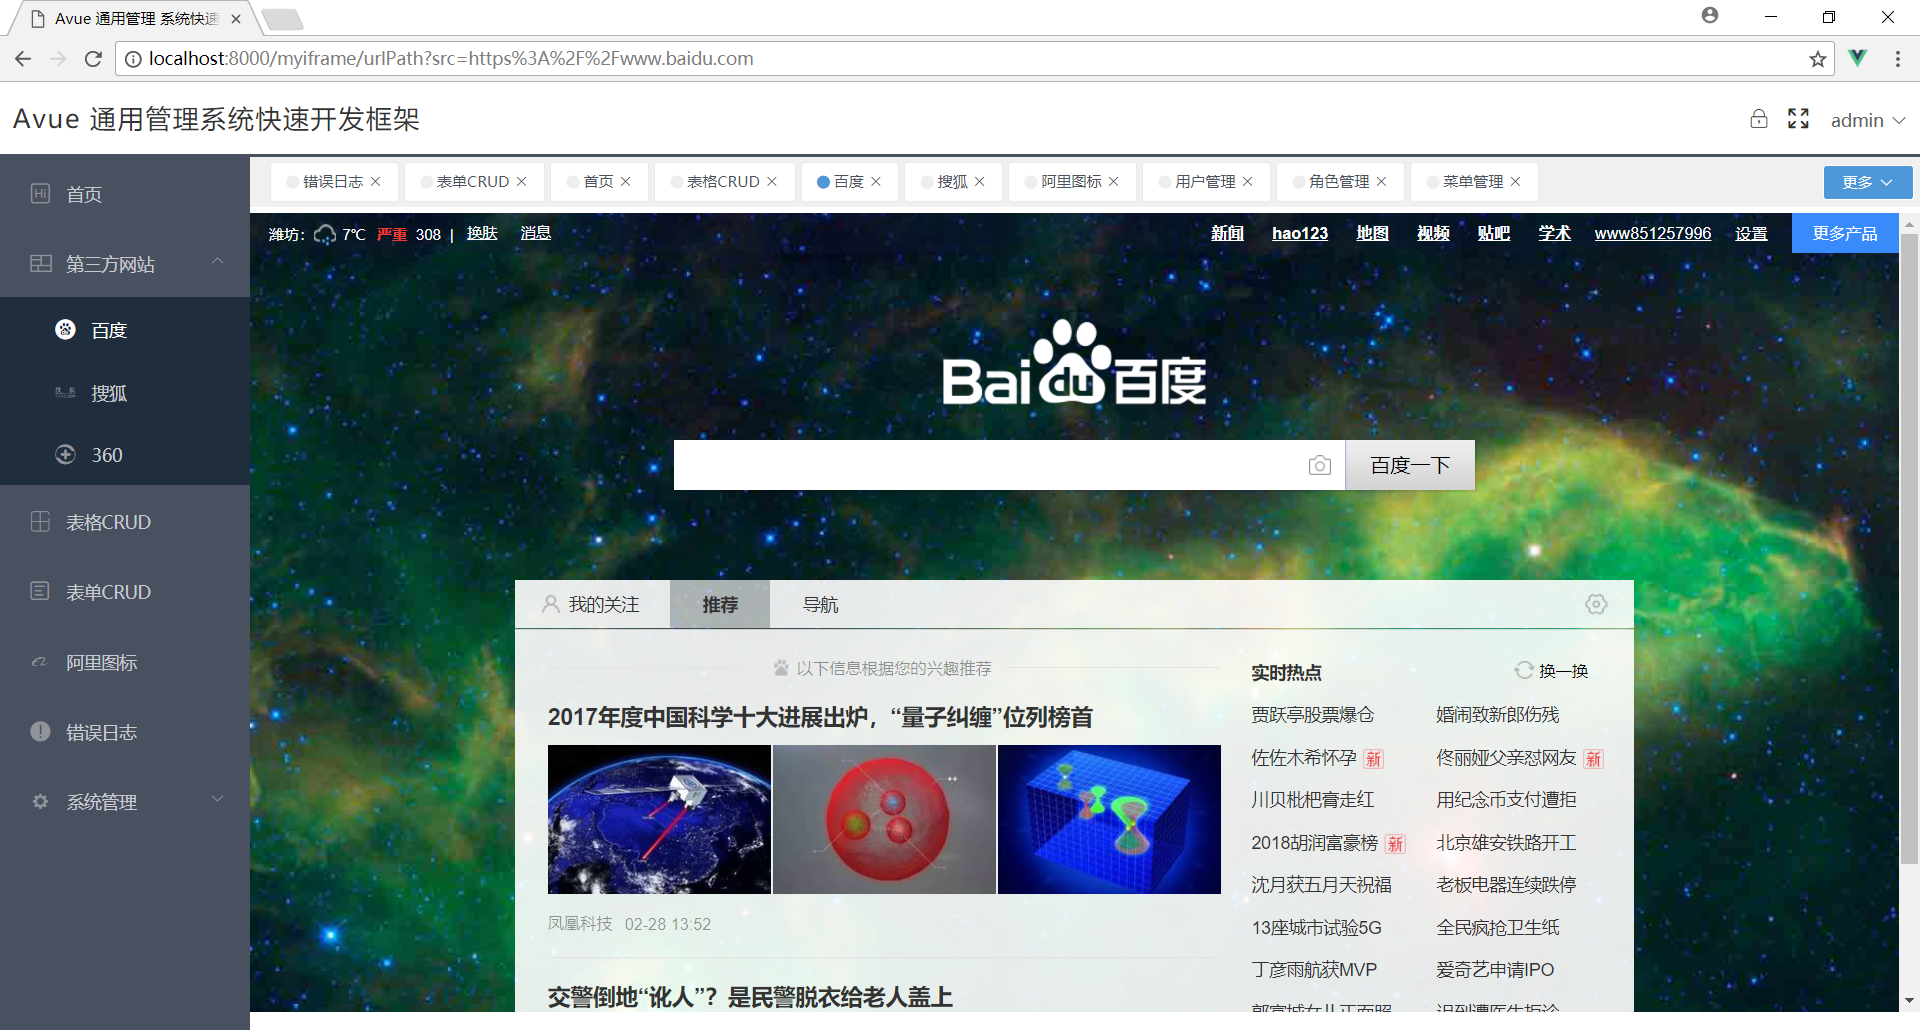
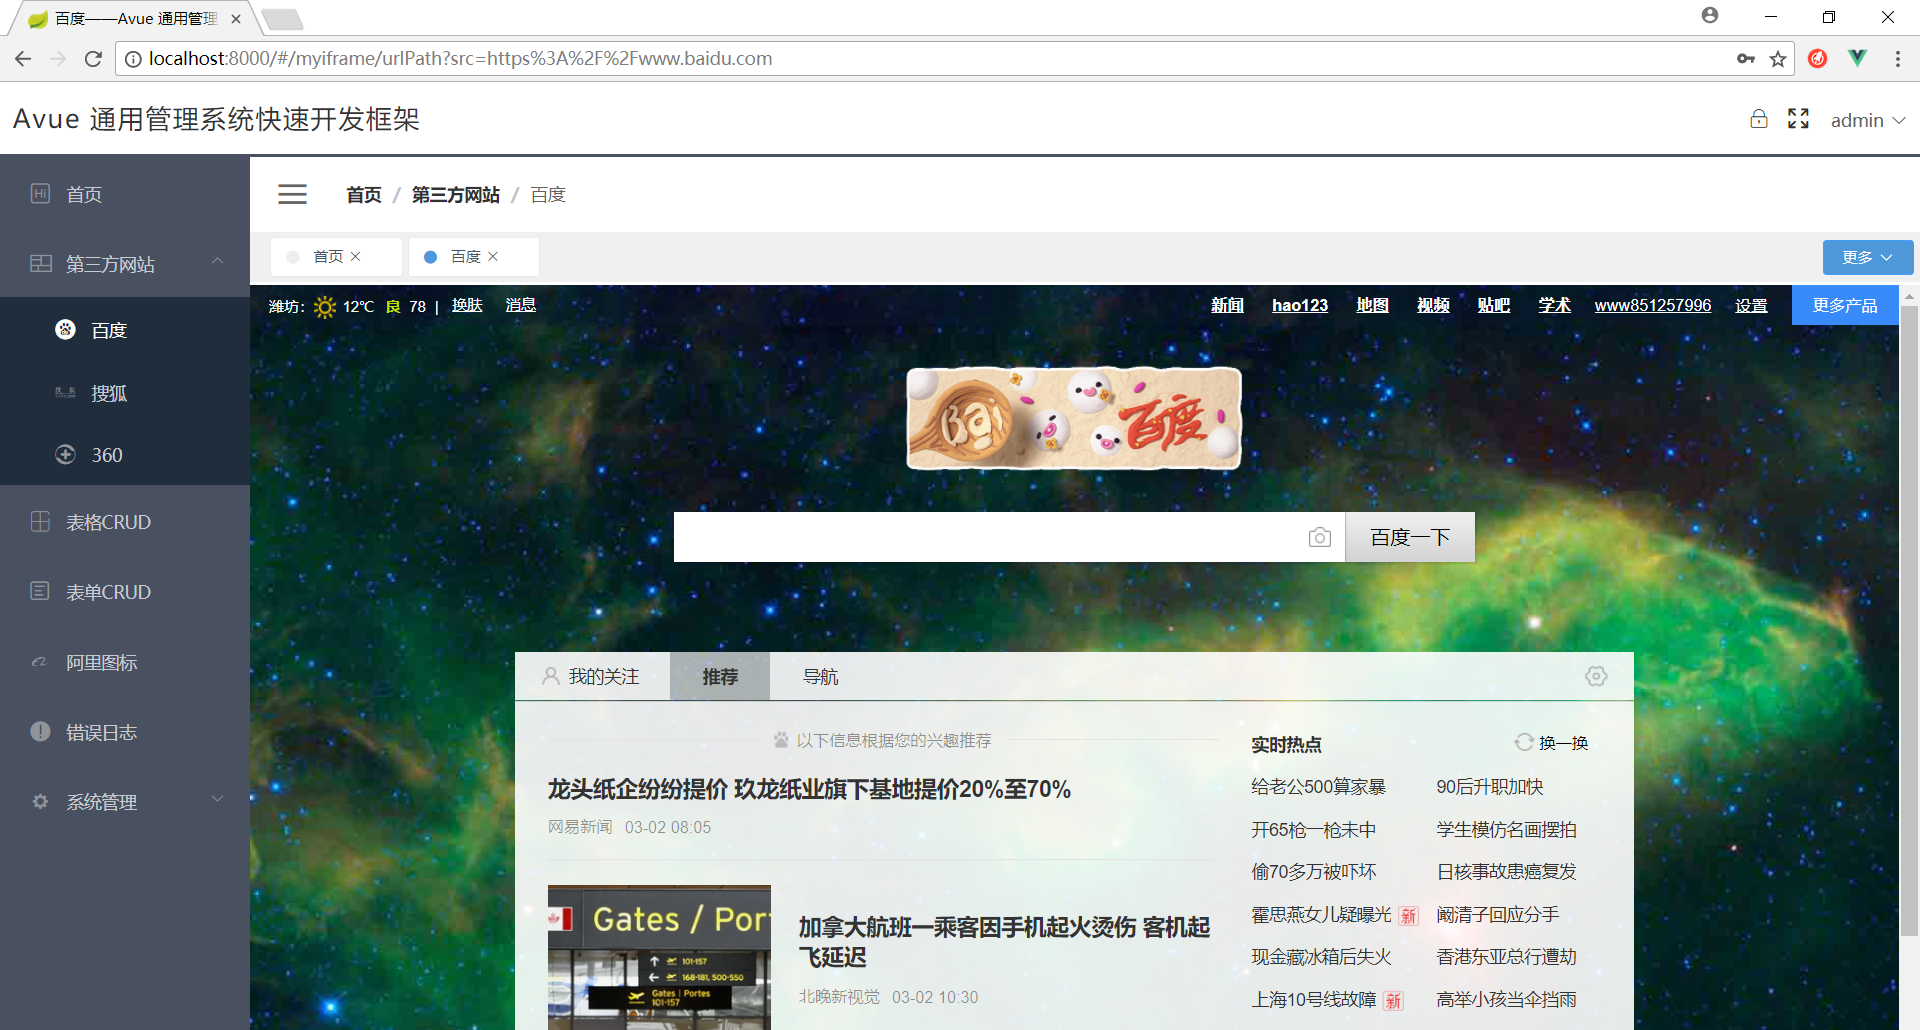
增加面包屑导航

diff --git a/src/permission.js b/src/permission.js
@@ -2,6 +2,8 @@ import router from './router/router'
 import store from './store'
 import { getToken } from '@/util/auth'
 import { vaildUtil } from '@/util/yun';
+import { setTitle } from '@/util/util';
+import { validatenull } from '@/util/validate';
 import { asyncRouterMap } from '@/router/router'
 function hasPermission(roles, permissionRoles) {
     if (!permissionRoles) return true
@@ -42,3 +44,47 @@ router.beforeEach((to, from, next) => {
     }
 })
 
+//寻找子菜单的父类
+function findMenuParent(tagCurrent, tag, tagWel) {
+    let index = -1;
+    tagCurrent.forEach((ele, i) => {
+        if (ele.value == tag.value) {
+            index = i;
+        }
+    })
+    if (tag.value == tagWel.value) {//判断是否为首页
+        tagCurrent = [tagWel];
+    } else if (index != -1) {//判断是否存在了
+        tagCurrent.splice(index, tagCurrent.length - 1);
+    } else {//其他操作
+        let currentPathObj = store.getters.menu.filter(item => {
+            if (item.children.length == 1) {
+                return item.children[0].href === tag.value;
+            } else {
+                let i = 0;
+                let childArr = item.children;
+                let len = childArr.length;
+                while (i < len) {
+                    if (childArr[i].href === tag.value) {
+                        return true;
+                    }
+                    i++;
+                }
+                return false;
+            }
+        })[0];
+        tagCurrent = [tagWel];
+        validatenull(currentPathObj) ? '' : tagCurrent.push(currentPathObj);
+        tagCurrent.push(tag);
+    }
+    return tagCurrent;
+}
+router.afterEach((to, from) => {
+    setTimeout(() => {
+        const tag = store.getters.tag;
+        const tagWel = store.getters.tagWel;
+        let tagCurrent = store.getters.tagCurrent;
+        setTitle(tag.label);
+        store.commit('SET_TAG_CURRENT', findMenuParent(tagCurrent, tag, tagWel));
+    }, 0);
+})

diff --git a/src/store/modules/tags.js b/src/store/modules/tags.js
@@ -1,4 +1,5 @@
 import { setStore, getStore } from '@/util/store'
+import { validatenull } from "@/util/validate"
 const tagObj = {
     label: '',
     value: '',
@@ -24,7 +25,7 @@ const navs = {
             label: "首页",
             value: "/wel/"
         },
-        tagCurrentPath: [{
+        tagCurrent: [{
             label: "首页",
             value: "/wel/"
         }],
@@ -44,6 +45,10 @@ const navs = {
             })
             state.tagList = setFistTag(state.tagList);
             setStore({ name: 'tagList', content: state.tagList, type: 'session' })
+        },
+        SET_TAG_CURRENT: (state, tagCurrent) => {
+            state.tagCurrent = tagCurrent;
+            setStore({ name: 'tagCurrent', content: state.tagCurrent, type: 'session' })
         },
         SET_TAG: (state, value) => {
             for (const [i, v] of state.tagList.entries()) {

diff --git a/src/page/index/breadcrumb.vue b/src/page/index/breadcrumb.vue
@@ -1,6 +1,8 @@
 <template>
   <el-breadcrumb separator="/" class="tags-breadcrumb-list" >
-        <el-breadcrumb-item  :to="{ path: tag.value }">{{tag.label}}</el-breadcrumb-item>
+        <template v-for="(item,index) in tagCurrent">
+            <el-breadcrumb-item  :to="{ path: item.value }" >{{item.label}}</el-breadcrumb-item>
+        </template>
     </el-breadcrumb>
 </template>
 <script>
@@ -14,7 +16,7 @@ export default {
   mounted() {},
   watch: {},
   computed: {
-    ...mapGetters(["tag"])
+    ...mapGetters(["tagCurrent"])
   },
   methods: {}
 };

diff --git a/src/page/index/tags.vue b/src/page/index/tags.vue
@@ -164,12 +164,12 @@ export default {
       this.$router.push({ path: resolveUrlPath(this.tagWel.value) });
     },
     openUrl(url, name, num) {
-      this.$router.push({ path: resolveUrlPath(url) });
       this.$store.commit("ADD_TAG", {
         label: name,
         value: url,
         num: num
       });
+      this.$router.push({ path: resolveUrlPath(url) });
     },
     eachTag(tag) {
       for (var key in this.tagList) {

diff --git a/src/store/getters.js b/src/store/getters.js
@@ -4,7 +4,7 @@ const getters = {
     isCollapse: state => state.common.isCollapse,
     isLock: state => state.common.isLock,
     tagList: state => state.tags.tagList,
-    tagCurrentPath: state => state.tags.tagCurrentPath,
+    tagCurrent: state => state.tags.tagCurrent,
     tagWel: state => state.tags.tagWel,
     token: state => state.user.token,
     roles: state => state.user.roles,

diff --git a/src/util/util.js b/src/util/util.js
@@ -1,6 +1,15 @@
 import { validatenull } from './validate'
 
 
+
+
+/**
+ * 设置浏览器头部标题
+ */
+export const setTitle = function (title) {
+    title = `${title}——Avue 通用管理 系统快速开发框架` || 'Avue 通用管理 系统快速开发框架';
+    window.document.title = title;
+};
 /**
  * 浏览器判断是否全屏
  */
